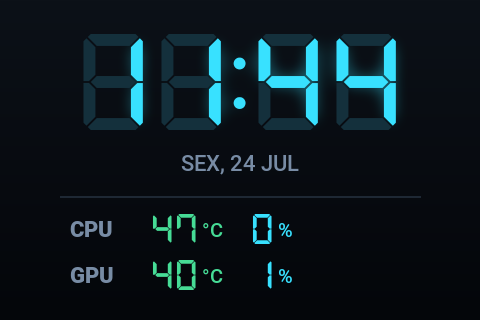
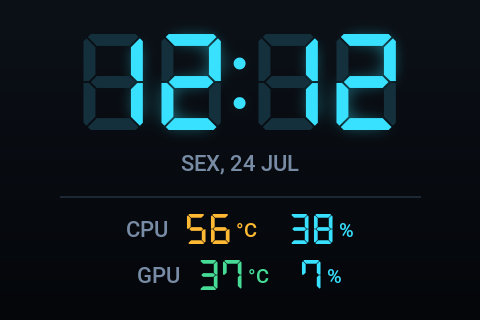
Relogio digital: CPU/GPU e data centralizados e no mesmo padrao
- Centraliza o bloco CPU/GPU (antes ancorado a esquerda)
- Labels CPU/GPU e data unificados em Roboto Medium
- IDLE_STYLE padrao = "digital"

diff --git a/music-visualizer.py b/music-visualizer.py
@@ -18,7 +18,7 @@ import psutil
 
 COM_PORT = "AUTO"
 REVISION = "A"
-IDLE_STYLE = "flip"  # tela ociosa: "digital" (relogio 7-seg) ou "flip" (painel de aeroporto)
+IDLE_STYLE = "digital"  # tela ociosa: "digital" (relogio 7-seg) ou "flip" (painel de aeroporto)
 stop = False
 script_dir = dirname(abspath(__file__))
 
@@ -30,8 +30,9 @@ font_temp = ImageFont.truetype(join(script_dir, "res", "fonts", "roboto", "Robot
 # --- Tela idle: relogio digital + metricas (tema escuro) --------------------
 dseg_big   = ImageFont.truetype(join(script_dir, "res", "fonts", "dseg", "DSEG7Classic-Bold.ttf"), 96)
 dseg_val   = ImageFont.truetype(join(script_dir, "res", "fonts", "dseg", "DSEG7Classic-Bold.ttf"), 30)
-idle_label = ImageFont.truetype(join(script_dir, "res", "fonts", "roboto", "Roboto-Black.ttf"), 22)
+idle_label = ImageFont.truetype(join(script_dir, "res", "fonts", "roboto", "Roboto-Medium.ttf"), 22)
 idle_unit  = ImageFont.truetype(join(script_dir, "res", "fonts", "roboto", "Roboto-Medium.ttf"), 20)
+idle_date_font = ImageFont.truetype(join(script_dir, "res", "fonts", "roboto", "Roboto-Medium.ttf"), 22)
 IDLE_ACCENT = (56, 225, 255)   # cor "acesa" do relogio (ciano) - troque aqui p/ mudar o tema
 IDLE_GHOST  = (20, 48, 60)     # segmentos apagados do display
 IDLE_MUTED  = (120, 140, 165)  # rotulos/data
@@ -155,29 +156,32 @@ def draw_idle_screen():
     draw.text((cx, clock_y), hhmm, font=dseg_big, fill=IDLE_ACCENT)
 
     # data centralizada
-    bbd = draw.textbbox((0, 0), date_str, font=font_light_small)
+    bbd = draw.textbbox((0, 0), date_str, font=idle_date_font)
     dx = (480 - (bbd[2] - bbd[0])) // 2 - bbd[0]
-    draw.text((dx, 150), date_str, font=font_light_small, fill=IDLE_MUTED)
+    draw.text((dx, 150), date_str, font=idle_date_font, fill=IDLE_MUTED)
 
     draw.line((60, 196, 420, 196), fill=(30, 40, 52), width=2)
 
     def row(y, label, t_val, u_val):
-        draw.text((70, y), label, font=idle_label, fill=IDLE_MUTED)
-        if t_val is not None:
-            tc = _temp_color(t_val)
-            s = f"{t_val:.0f}"
-            draw.text((150, y - 2), s, font=dseg_val, fill=tc)
-            b = draw.textbbox((150, y - 2), s, font=dseg_val)
-            draw.text((b[2] + 4, y + 2), "°C", font=idle_unit, fill=tc)
-        else:
-            draw.text((150, y + 2), "--", font=idle_unit, fill=IDLE_MUTED)
-        if u_val is not None:
-            s = f"{u_val:.0f}"
-            draw.text((250, y - 2), s, font=dseg_val, fill=IDLE_ACCENT)
-            b = draw.textbbox((250, y - 2), s, font=dseg_val)
-            draw.text((b[2] + 4, y + 2), "%", font=idle_unit, fill=IDLE_ACCENT)
-        else:
-            draw.text((250, y + 2), "--", font=idle_unit, fill=IDLE_MUTED)
+        t_s = f"{t_val:.0f}" if t_val is not None else "--"
+        u_s = f"{u_val:.0f}" if u_val is not None else "--"
+        t_font = dseg_val if t_val is not None else idle_unit
+        u_font = dseg_val if u_val is not None else idle_unit
+        LG, UG, SG = 16, 4, 30
+        lw  = draw.textlength(label, font=idle_label)
+        tw_ = draw.textlength(t_s, font=t_font)
+        dcw = draw.textlength("°C", font=idle_unit)
+        uw_ = draw.textlength(u_s, font=u_font)
+        pcw = draw.textlength("%", font=idle_unit)
+        total = lw + LG + tw_ + UG + dcw + SG + uw_ + UG + pcw
+        x = (480 - total) // 2
+        tc = _temp_color(t_val)
+        uc = IDLE_ACCENT if u_val is not None else IDLE_MUTED
+        draw.text((x, y), label, font=idle_label, fill=IDLE_MUTED); x += lw + LG
+        draw.text((x, y - 2), t_s, font=t_font, fill=tc);          x += tw_ + UG
+        draw.text((x, y + 2), "°C", font=idle_unit, fill=tc);      x += dcw + SG
+        draw.text((x, y - 2), u_s, font=u_font, fill=uc);          x += uw_ + UG
+        draw.text((x, y + 2), "%", font=idle_unit, fill=uc)
 
     row(216, "CPU", stats["cpu_temp"], stats["cpu_use"])
     row(262, "GPU", stats["gpu_temp"], stats["gpu_use"])
